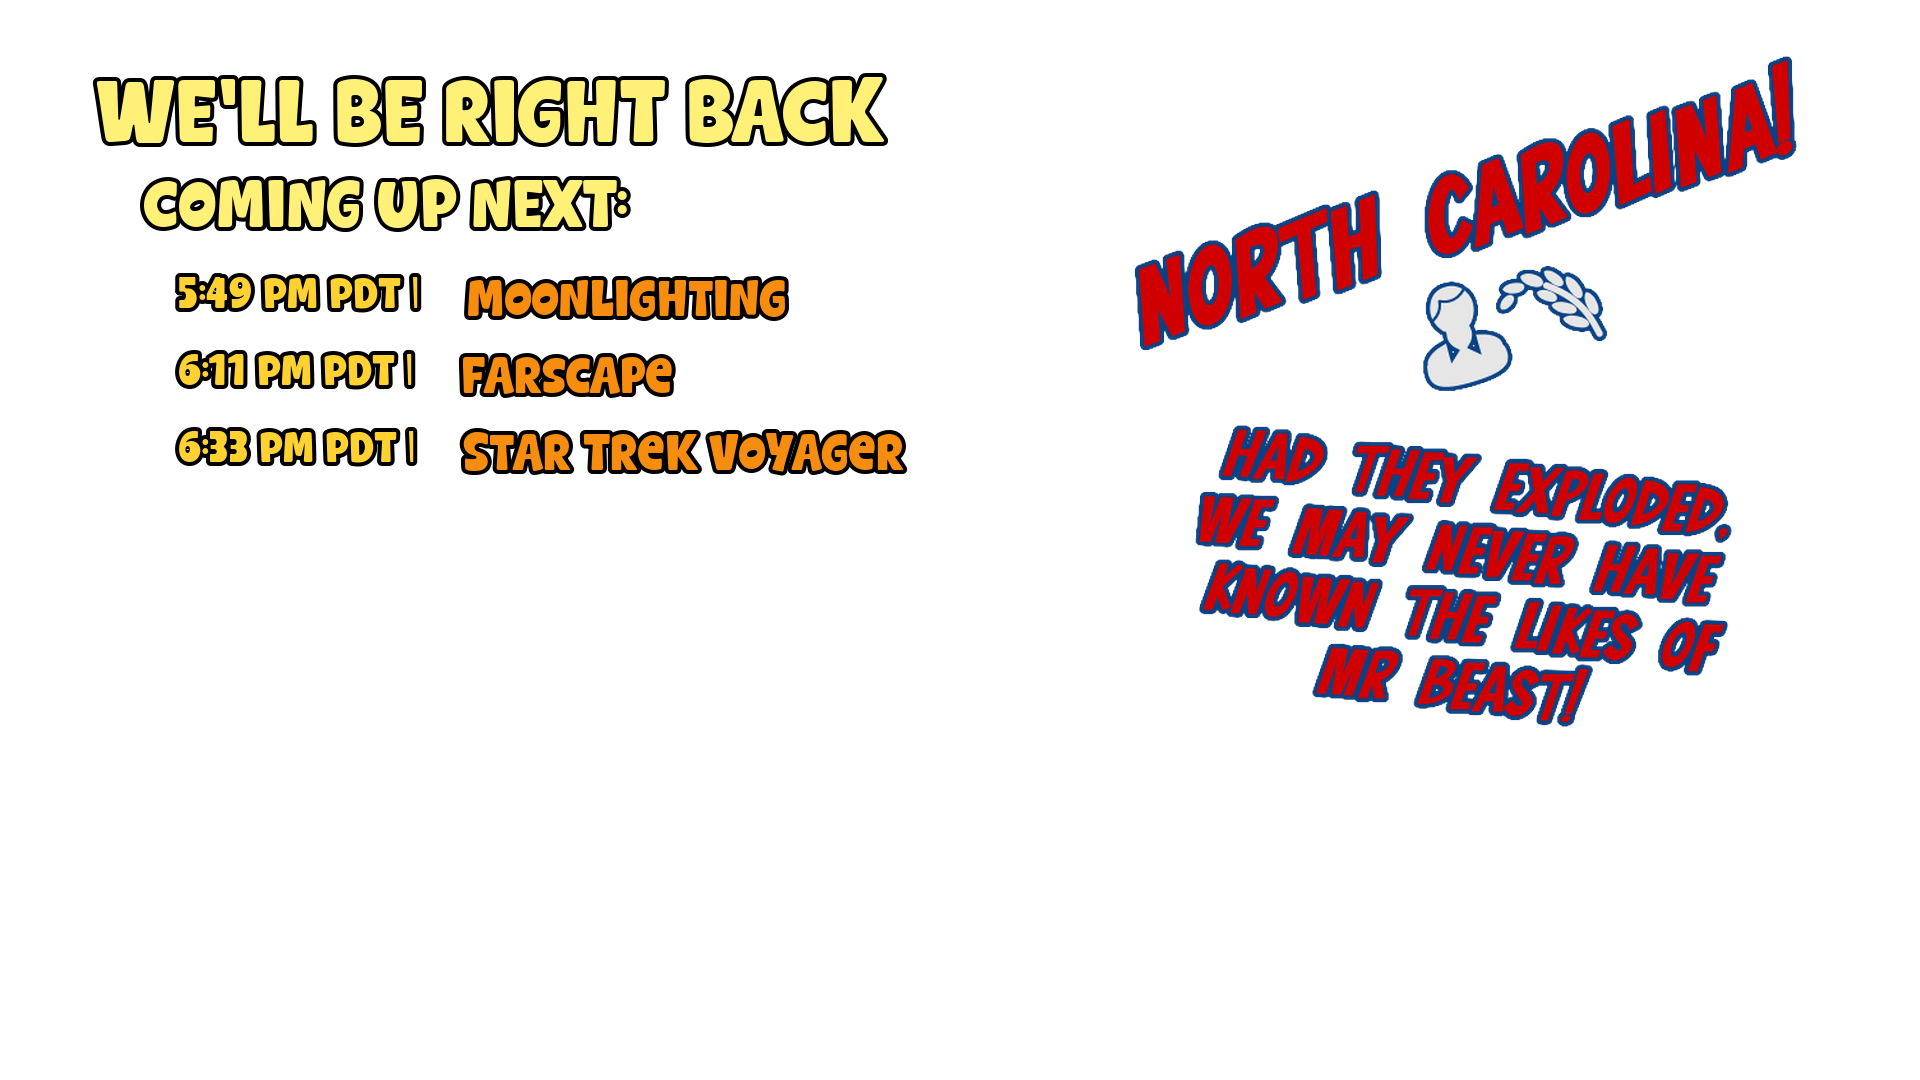
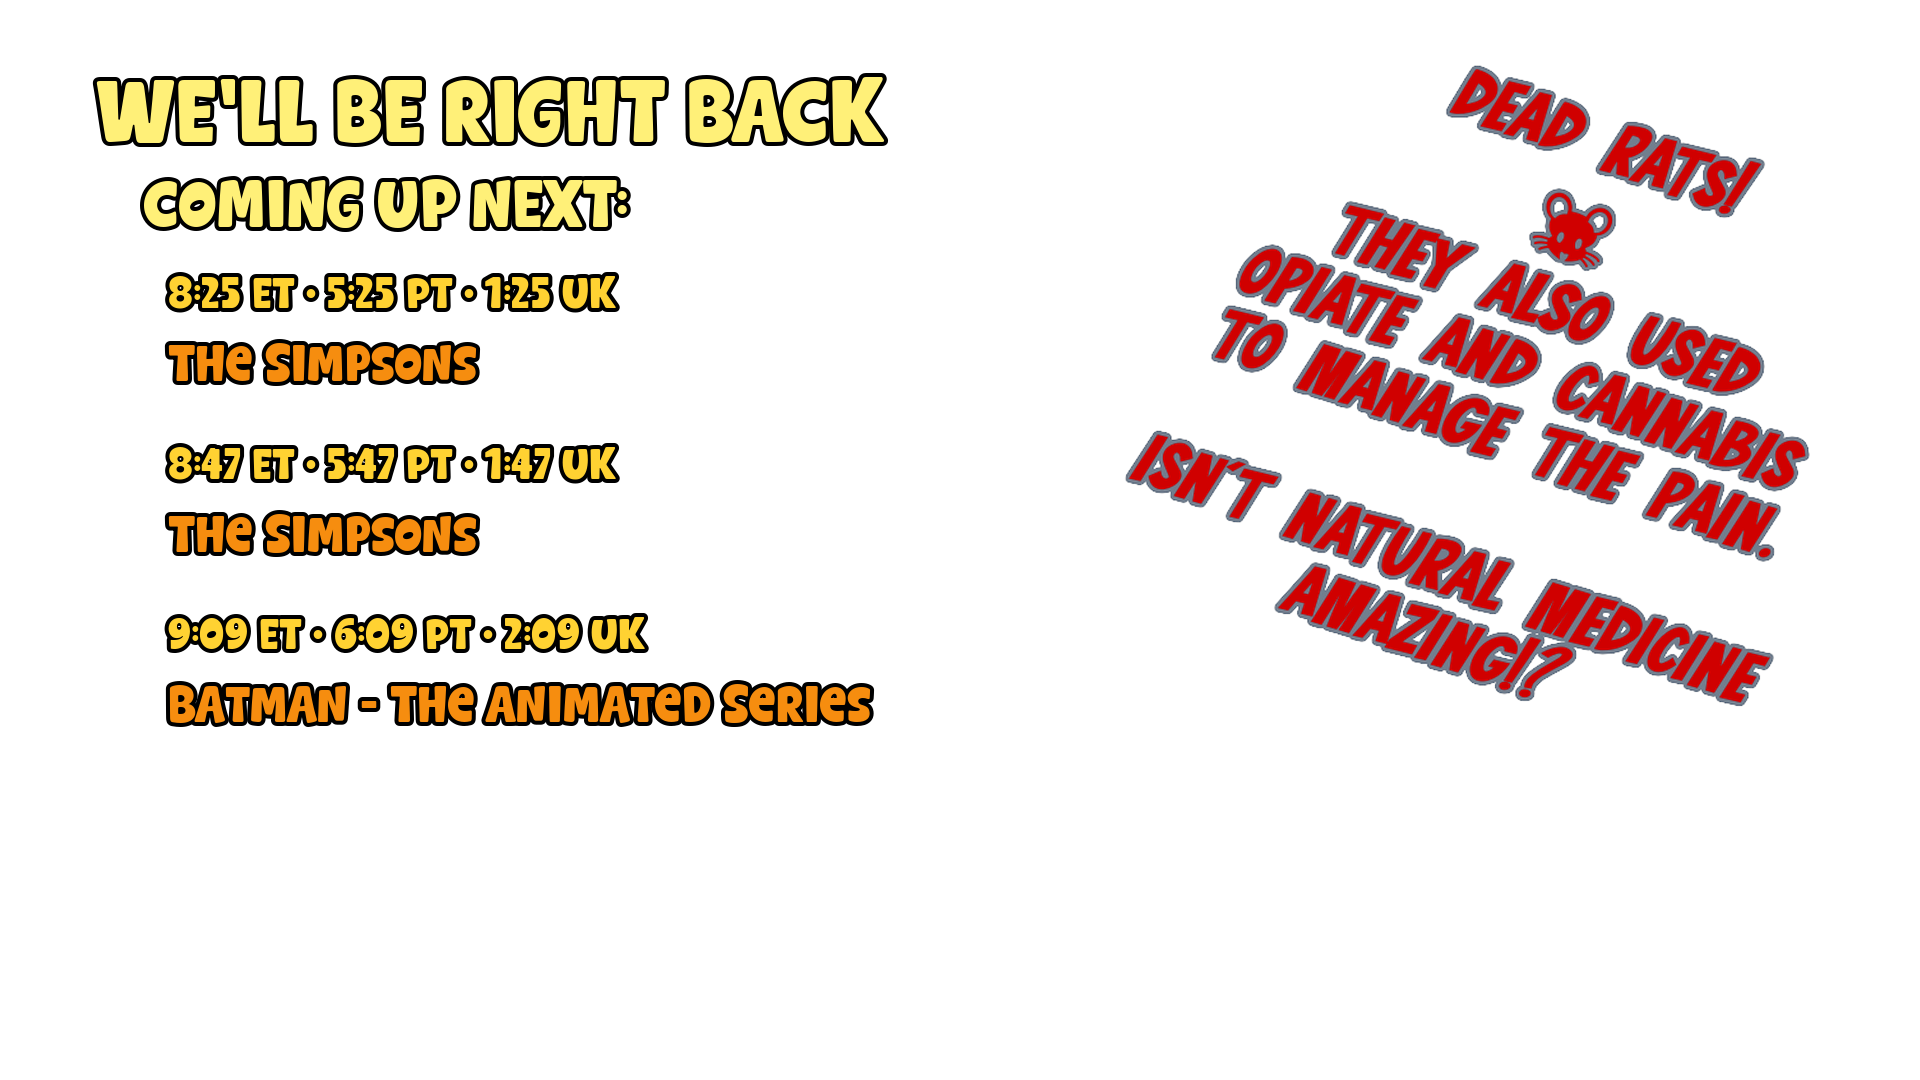
dddd

diff --git a/graphics_engine.py b/graphics_engine.py
@@ -3,6 +3,10 @@ import random
 from PIL import Image, ImageDraw, ImageFont
 import datetime
 import time
+try:
+    import zoneinfo
+except ImportError:
+    pass
 
 class GraphicsEngine:
     def __init__(self, font_path="assets/MonoPolz.ttf", resolution=(1920, 1080), music_font="assets/vcr_mono.ttf"):
@@ -36,64 +40,75 @@ class GraphicsEngine:
         header_text = "WE'LL BE RIGHT BACK"
         draw.text((SAFE_X, SAFE_Y), header_text, font=header_font, fill=(255, 240, 120, 255), stroke_width=4, stroke_fill=(0,0,0,255))
         
-        # 4. Calculate Times
-        current_time = datetime.datetime.now()
-        start_time = current_time + datetime.timedelta(seconds=commercial_duration_sec)
-        is_dst = time.localtime().tm_isdst > 0
-        tz_code = "PDT" if is_dst else "PST"
+        # 4. Calculate Times (Bulletproof Timezone Logic)
+        current_time_utc = datetime.datetime.now(datetime.timezone.utc)
+        start_time_utc = current_time_utc + datetime.timedelta(seconds=commercial_duration_sec)
 
-        # 5. Draw "UP NEXT:"
+        # Try to use precise DST-aware zone libraries, fallback to manual offsets if needed
+        try:
+            tz_et = zoneinfo.ZoneInfo("America/New_York")
+            tz_pt = zoneinfo.ZoneInfo("America/Los_Angeles")
+            tz_uk = zoneinfo.ZoneInfo("Europe/London")
+        except Exception:
+            is_dst = time.localtime().tm_isdst > 0
+            tz_et = datetime.timezone(datetime.timedelta(hours=-4 if is_dst else -5))
+            tz_pt = datetime.timezone(datetime.timedelta(hours=-7 if is_dst else -8))
+            tz_uk = datetime.timezone(datetime.timedelta(hours=1 if is_dst else 0))
+
+        # 5. Draw "COMING UP NEXT:"
         y_offset = SAFE_Y + (line_height * 1.1)
         draw.text((SAFE_X*1.5, y_offset), "COMING UP NEXT:", font=up_font, fill=(255, 240, 120, 255),stroke_width=4, stroke_fill=(0,0,0,255))
         y_offset += (line_height * 1.1)
 
-        # 6. Draw Shows
+        # 6. Draw Shows (Stacked Layout for Timezones)
         drawn_count = 0
         for item_data in upcoming_shows:
             if drawn_count >= len(upcoming_shows): break
             
-            # Unpack data (handle both old 2-tuple and new 3-tuple formats for safety)
             show_name = item_data[0]
             duration = item_data[1]
             s_type = item_data[2] if len(item_data) > 2 else "video"
 
             # SKIP MUSIC VIDEOS: Don't draw them, but add their time to start_time
             if s_type == "music_video":
-                start_time += datetime.timedelta(seconds=duration)
+                start_time_utc += datetime.timedelta(seconds=duration)
                 continue
 
-            time_str = start_time.strftime("%I:%M %p").lstrip("0")
-            if len(time_str.split(':')[0]) == 1:
-                time_str = " " + time_str
-            time_str += f" {tz_code}"
+            # Convert UTC to local times
+            time_et = start_time_utc.astimezone(tz_et)
+            time_pt = start_time_utc.astimezone(tz_pt)
+            time_uk = start_time_utc.astimezone(tz_uk)
 
-            time_width = int(draw.textlength(time_str + " | ", font=time_font))
-            gap_padding = int(target_width * 0.02)
-            title_x = SAFE_X * 1.75 + time_width + gap_padding
+            # Format times (e.g., "8:00 ET")
+            t_et = time_et.strftime("%I:%M").lstrip("0") + " ET"
+            t_pt = time_pt.strftime("%I:%M").lstrip("0") + " PT"
+            t_uk = time_uk.strftime("%I:%M").lstrip("0") + " UK"
 
-            draw.text((SAFE_X*1.75, y_offset), time_str + " | ", font=time_font, fill=(255, 210, 50, 255),stroke_width=4, stroke_fill=(0,0,0,255))
+            time_str = f"{t_et} \u2022 {t_pt} \u2022 {t_uk}"
 
-            # TITLE WRAPPING LOGIC
-            max_line_chars = 24
+            # DRAW TIMES (Line 1)
+            draw.text((SAFE_X*1.75, y_offset), time_str, font=time_font, fill=(255, 210, 50, 255),stroke_width=4, stroke_fill=(0,0,0,255))
+            y_offset += int(time_size * 1.3) 
+
+            # DRAW TITLE (Line 2)
+            max_line_chars = 30 # Increased since title has the whole row to itself now
             if len(show_name) <= max_line_chars:
-                draw.text((title_x, y_offset), show_name, font=show_font, fill=(246, 141, 15, 255),stroke_width=4, stroke_fill=(0,0,0,255))
+                draw.text((SAFE_X*1.75, y_offset), show_name, font=show_font, fill=(246, 141, 15, 255),stroke_width=4, stroke_fill=(0,0,0,255))
             else:
-                # Find the space character closest to the 24th character
+                # Word Wrap Logic
                 split_idx = show_name.rfind(' ', 0, max_line_chars + 1)
-                if split_idx == -1: split_idx = max_line_chars # Fallback if no space
+                if split_idx == -1: split_idx = max_line_chars 
 
                 line1 = show_name[:split_idx].strip()
                 line2 = show_name[split_idx:].strip()
+                if len(line2) > 35: line2 = line2[:32] + "..."
 
-                # Limit line 2 to prevent excessive length if needed (optional)
-                if len(line2) > 30: line2 = line2[:27] + "..."
+                draw.text((SAFE_X*1.75, y_offset), line1, font=show_font, fill=(246, 141, 15, 255),stroke_width=4, stroke_fill=(0,0,0,255))
+                y_offset += int(line_height * 0.6) 
+                draw.text((SAFE_X*1.75, y_offset), line2, font=show_font, fill=(246, 141, 15, 255),stroke_width=4, stroke_fill=(0,0,0,255))
 
-                draw.text((title_x, y_offset), line1, font=show_font, fill=(246, 141, 15, 255),stroke_width=4, stroke_fill=(0,0,0,255))
-                y_offset += int(line_height * 0.6) # Move down for the wrapped line
-                draw.text((title_x, y_offset), line2, font=show_font, fill=(246, 141, 15, 255),stroke_width=4, stroke_fill=(0,0,0,255))
-
-            start_time += datetime.timedelta(seconds=duration)
-            y_offset += (line_height * 0.8)
+            start_time_utc += datetime.timedelta(seconds=duration)
+            y_offset += (line_height * 1.1) 
             drawn_count += 1
 
 